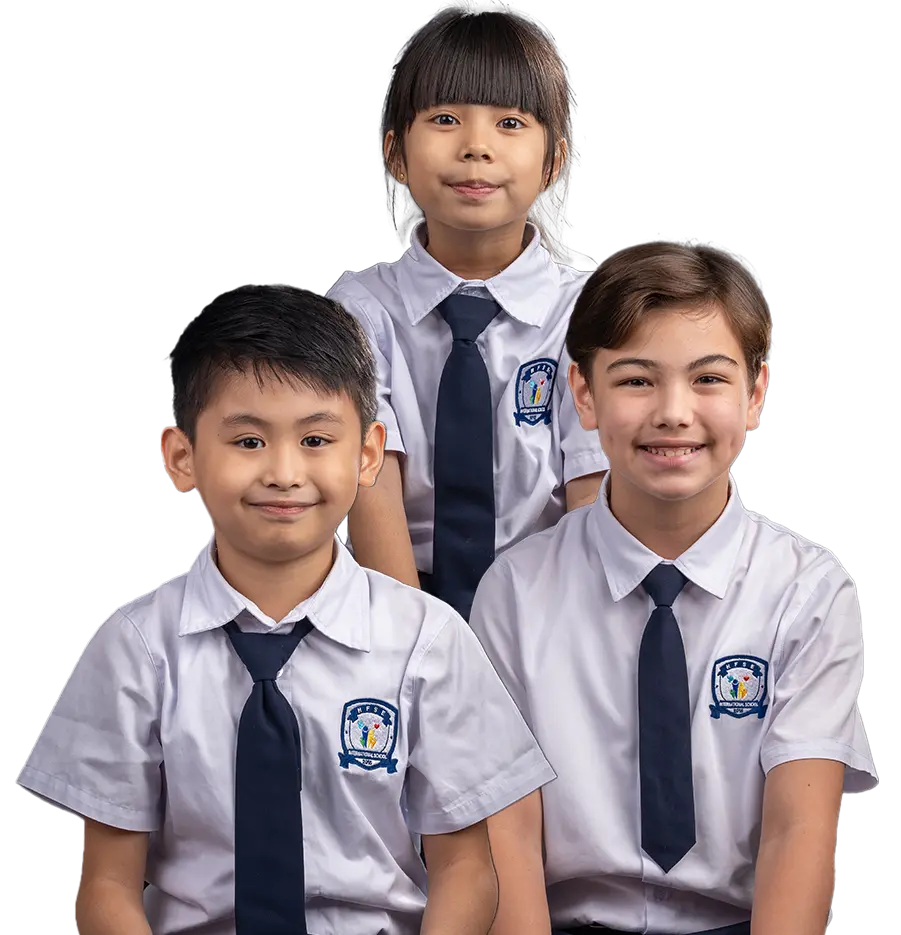
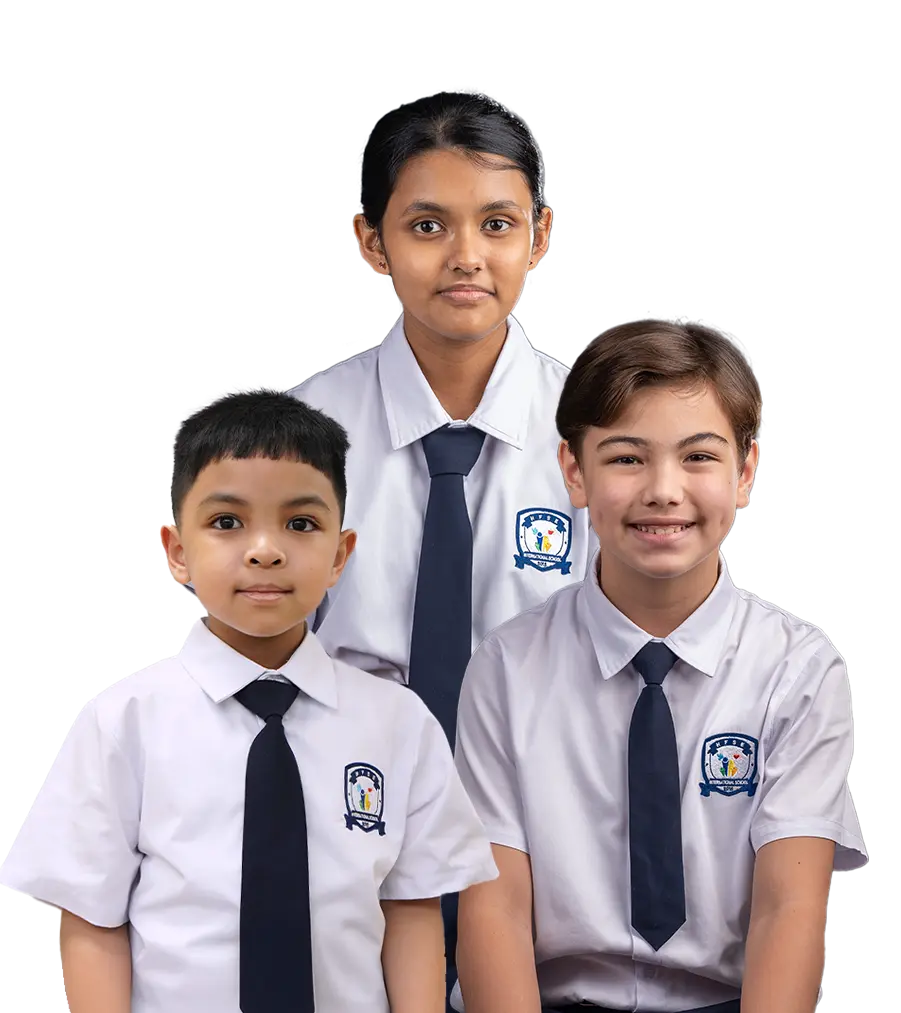
chore: change students image for login and register page

diff --git a/src/pages/auth/login.tsx b/src/pages/auth/login.tsx
@@ -1,5 +1,5 @@
 import { userLogin } from "@/actions/auth";
-import students from "@/assets/students-login.webp";
+import students from "@/assets/students.webp";
 import Logo from "@/components/logo";
 import MaxWidthWrapper from "@/components/max-width-wrapper";
 import PageMetaData from "@/components/page-metadata";
